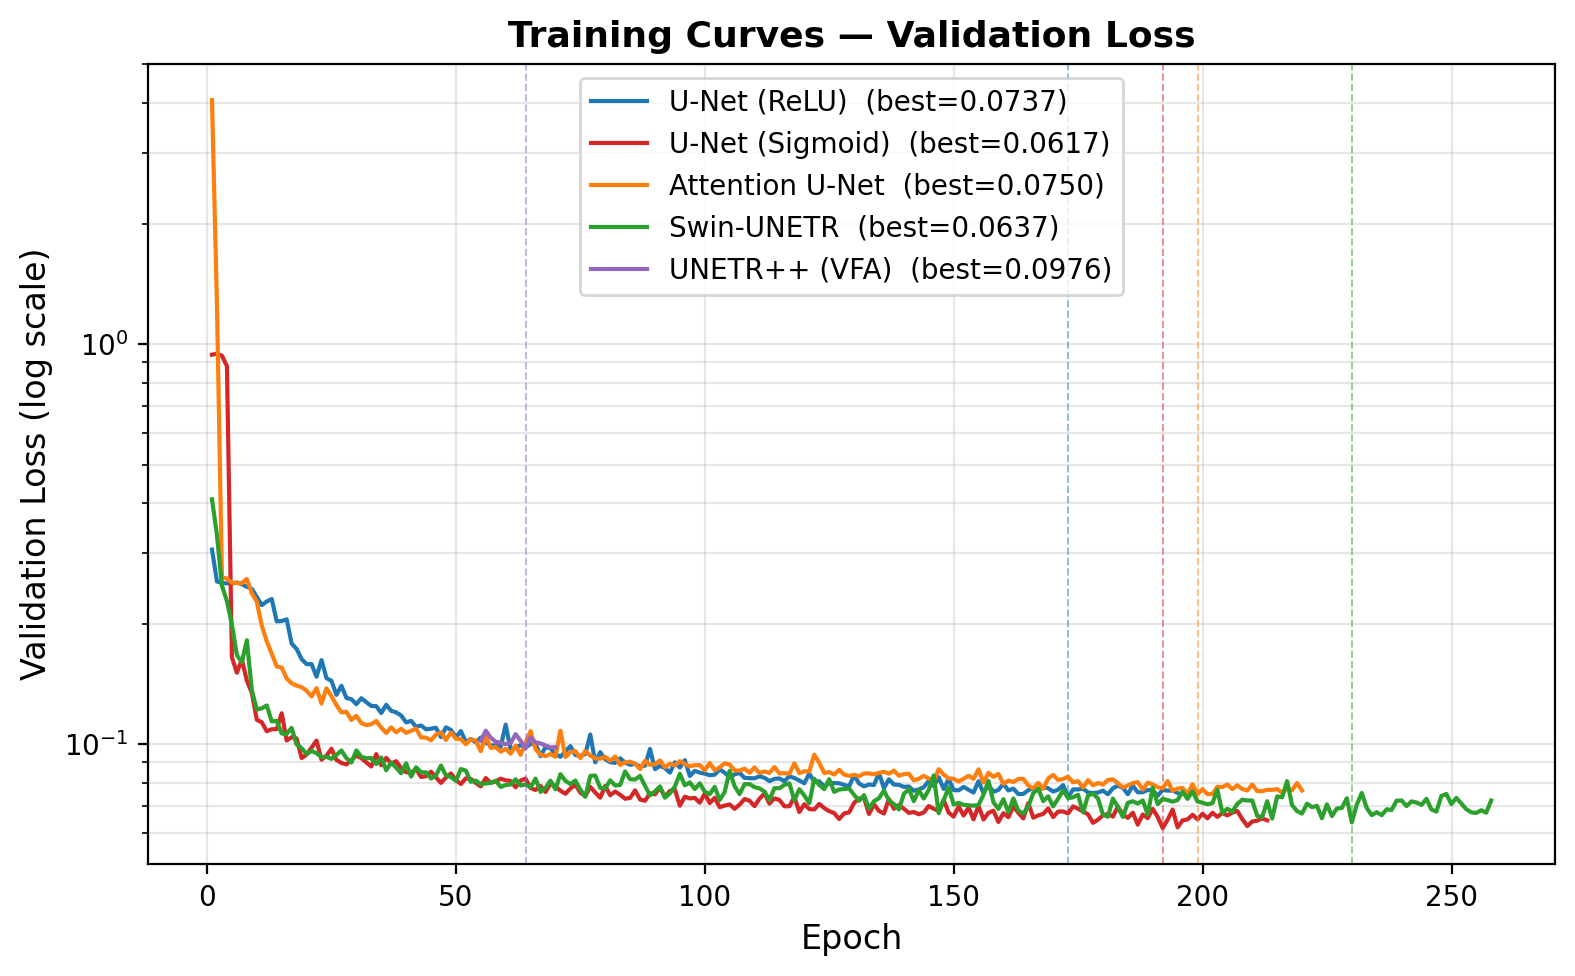
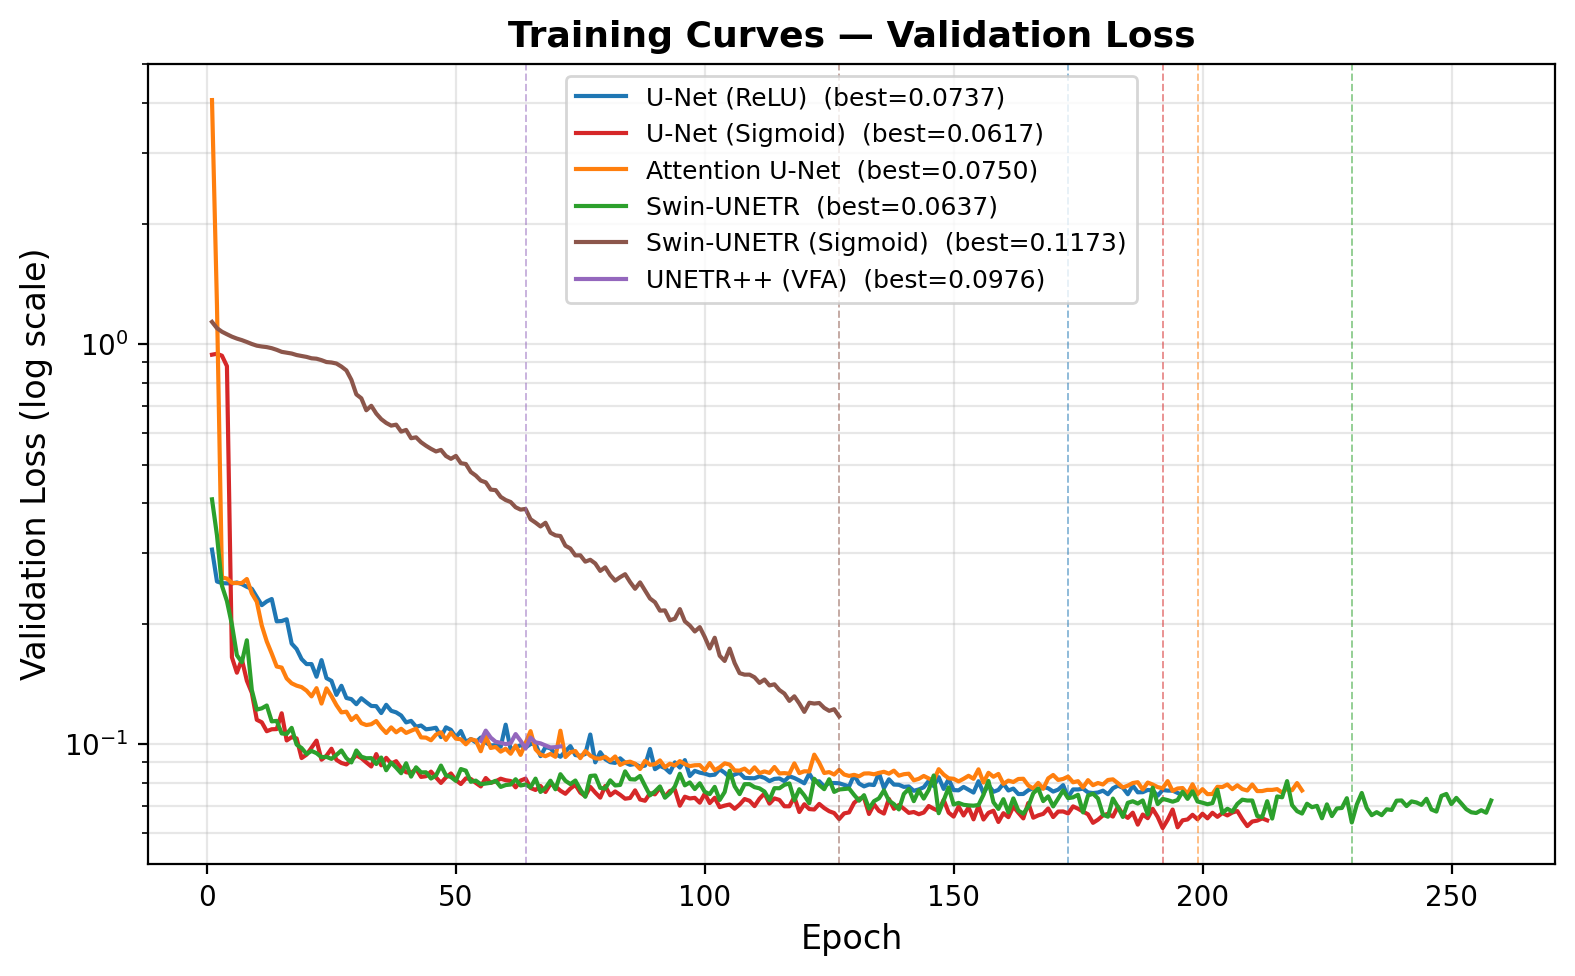
Fix double References heading, typos, add Swin Sigmoid to training curves

diff --git a/report_files/neurips_2024.tex b/report_files/neurips_2024.tex
@@ -104,7 +104,7 @@ producing the lowest validation loss was used for evaluation on MSE and SSIM.
 All experiments were conducted on an Ubuntu workstation with a 32-core
 3.7~GHz CPU, 256~GB memory, and four NVIDIA Quadro RTX 6000 GPUs.
 
-In total, 4 architectures were tested: the baseline U-Net, Attention U-Net,
+In total, four architectures were tested: the baseline U-Net, Attention U-Net,
 Swin-UNETR, and UNETR++ with Voxel-Focused Attention. The U-Net and Swin-UNETR
 were additionally evaluated with a sigmoid final activation.
 
@@ -203,7 +203,7 @@ heavier models.
 
 Table~\ref{tab:results} reports validation loss (the composite training
 objective) and test-set metrics for all architectures. Test metrics are
-computed on the held-out test set (18 subjects) on full volumes normalised
+computed on the held-out test set (18 subjects) on full volumes normalized
 to $[0,1]$; SSIM is reported as actual structural similarity (higher is
 better), and MSE is mean-squared error (lower is better).
 
@@ -383,10 +383,6 @@ regional intensity inversions such as CSF suppression.
 
 Thank you to Inga for providing me her data and help with this assignment, and to Bryan and Sreekanth for helping me get started.
 Thank you to Professor Kao for a fantastic class.
-
-% -----------------------------------------------------------------------
-\section*{References}
-% -----------------------------------------------------------------------
 
 {\small
 \bibliographystyle{unsrt}
